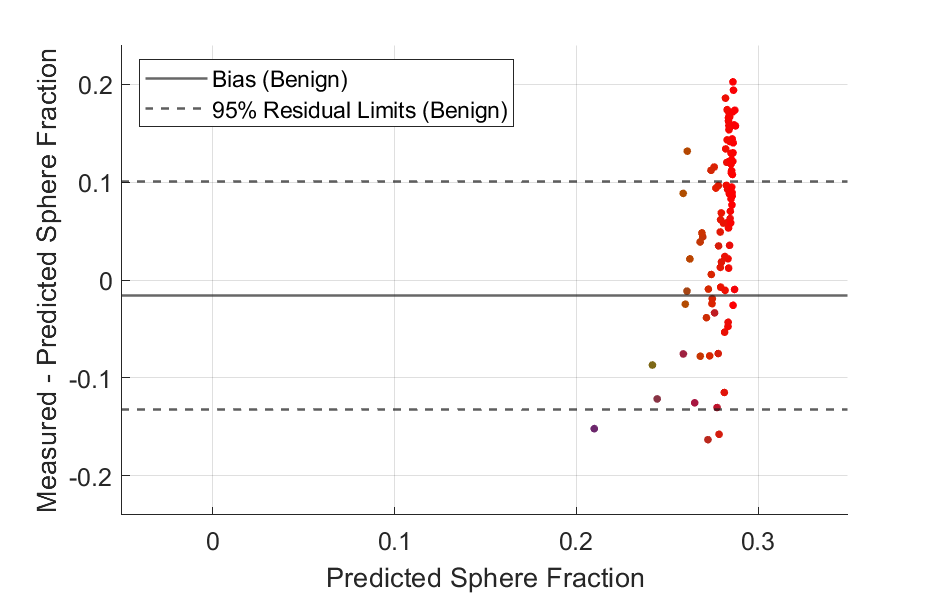
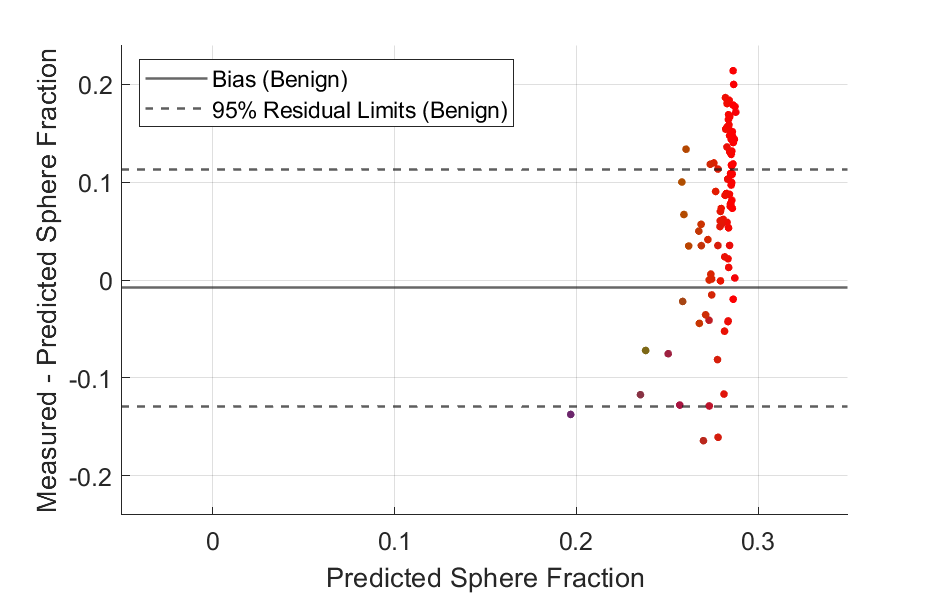
UPdate.

diff --git a/Code/Analysis/model_measured_predicted_signals.m b/Code/Analysis/model_measured_predicted_signals.m
@@ -78,69 +78,69 @@ end
 %% Run modelling
 
 
-% ============= ADC model
-
-modelname = 'ADC';
-fittingtechnique = 'LSQ';
-Nparam = 2;
-
-D = 1; Dlb = 0.1; Dub = 3;
-S0 = 1; S0lb = 0.9; S0ub = 1.1;
-
-beta0 = [S0, D];
-lb = [S0lb, Dlb];
-ub = [S0ub, Dub];
-
-% Regularisation
-lambda0=0e-2;
-lambda = lambda0*ones(1,Nparam);
-
-
-% == MEASURED
-
-Y = reshape(MeasuredSignals, [Nvoxel, 1 , nscheme]);
-
-[~, measured_D] = diffusion_model_fit( ...
-    Y, ...
-    scheme, ...
-    modelname = modelname,...
-    fittingtechnique = fittingtechnique,...
-    Nparam = Nparam,...
-    beta0=beta0,...
-    lambda=lambda,...
-    lb=lb,...
-    ub=ub...
-    );
-
-% Save
-folder = fullfile(projectfolder, 'Outputs', 'Model Fitting', 'Measured', modelname);
-mkdir(folder);
-save(fullfile(folder, 'D.mat'), 'measured_D')
-
-% == PREDICTED
-
-Y = reshape(PredictedSignals, [Nvoxel, 1 , nscheme]);
-
-% Normalise for S0 
-Y(:,:,2:end) = Y(:,:,2:end)./(sum(COMP,2));
-
-[~, pred_D] = diffusion_model_fit( ...
-    Y, ...
-    scheme, ...
-    modelname = modelname,...
-    fittingtechnique = fittingtechnique,...
-    Nparam = Nparam,...
-    beta0=beta0,...
-    lambda=lambda,...
-    lb=lb,...
-    ub=ub...
-    );
-
-% Save
-folder = fullfile(projectfolder, 'Outputs', 'Model Fitting', 'Predicted', modelname);
-mkdir(folder);
-save(fullfile(folder, 'D.mat'), 'pred_D')
-
+% % ============= ADC model
+% 
+% modelname = 'ADC';
+% fittingtechnique = 'LSQ';
+% Nparam = 2;
+% 
+% D = 1; Dlb = 0.1; Dub = 3;
+% S0 = 1; S0lb = 0.9; S0ub = 1.1;
+% 
+% beta0 = [S0, D];
+% lb = [S0lb, Dlb];
+% ub = [S0ub, Dub];
+% 
+% % Regularisation
+% lambda0=0e-2;
+% lambda = lambda0*ones(1,Nparam);
+% 
+% 
+% % == MEASURED
+% 
+% Y = reshape(MeasuredSignals, [Nvoxel, 1 , nscheme]);
+% 
+% [~, measured_D] = diffusion_model_fit( ...
+%     Y, ...
+%     scheme, ...
+%     modelname = modelname,...
+%     fittingtechnique = fittingtechnique,...
+%     Nparam = Nparam,...
+%     beta0=beta0,...
+%     lambda=lambda,...
+%     lb=lb,...
+%     ub=ub...
+%     );
+% 
+% % Save
+% folder = fullfile(projectfolder, 'Outputs', 'Model Fitting', 'Measured', modelname);
+% mkdir(folder);
+% save(fullfile(folder, 'D.mat'), 'measured_D')
+% 
+% % == PREDICTED
+% 
+% Y = reshape(PredictedSignals, [Nvoxel, 1 , nscheme]);
+% 
+% % Normalise for S0 
+% Y(:,:,2:end) = Y(:,:,2:end)./(sum(COMP,2));
+% 
+% [~, pred_D] = diffusion_model_fit( ...
+%     Y, ...
+%     scheme, ...
+%     modelname = modelname,...
+%     fittingtechnique = fittingtechnique,...
+%     Nparam = Nparam,...
+%     beta0=beta0,...
+%     lambda=lambda,...
+%     lb=lb,...
+%     ub=ub...
+%     );
+% 
+% % Save
+% folder = fullfile(projectfolder, 'Outputs', 'Model Fitting', 'Predicted', modelname);
+% mkdir(folder);
+% save(fullfile(folder, 'D.mat'), 'pred_D')
+% 
 
 
 
@@ -162,8 +162,8 @@ Nparam = 5;
 
 Nparam = 5;
 beta0 = [0.15, 6.5, 0.6, 0.8, 1];
-lb = [0, 6.5, 0.6, 0.1, 1];
-ub = [1, 6.5, 0.6, 3, 1];
+lb = [0, 2, 0.6, 0.1, 1];
+ub = [1, 12, 0.6, 3, 1];
 
 
 % Regularisation
@@ -177,7 +177,7 @@ Y = reshape(PredictedSignals, [Nvoxel, 1 , nscheme]);
 % Normalise for S0
 Y(:,:,2:end) = Y(:,:,2:end)./(sum(COMP,2));
 
-[pred_fs, ~, ~, pred_Db, ~, ~] = diffusion_model_fit( ...
+[pred_fs, pred_R, ~, pred_Db, ~, ~] = diffusion_model_fit( ...
     Y, ...
     scheme, ...
     modelname = modelname,...
@@ -194,12 +194,13 @@ folder = fullfile(projectfolder, 'Outputs', 'Model Fitting', 'Predicted', modeln
 mkdir(folder);
 save(fullfile(folder, 'fs.mat'), 'pred_fs')
 save(fullfile(folder, 'Db.mat'), 'pred_Db')
+save(fullfile(folder, 'R.mat'), 'pred_R')
 
 % == MEASURED
 
 Y = reshape(MeasuredSignals, [Nvoxel, 1 , nscheme]);
 
-[measured_fs, ~, ~, measured_Db, ~, ~] = diffusion_model_fit( ...
+[measured_fs, measured_R, ~, measured_Db, ~, ~] = diffusion_model_fit( ...
     Y, ...
     scheme, ...
     modelname = modelname,...
@@ -216,5 +217,6 @@ folder = fullfile(projectfolder, 'Outputs', 'Model Fitting', 'Measured', modelna
 mkdir(folder);
 save(fullfile(folder, 'fs.mat'), 'measured_fs')
 save(fullfile(folder, 'Db.mat'), 'measured_Db')
+save(fullfile(folder, 'R.mat'), 'measured_R')
 
 

diff --git a/Code/Figures/plot_cancer_signal_predictions_vs_measurements.m b/Code/Figures/plot_cancer_signal_predictions_vs_measurements.m
@@ -14,7 +14,7 @@ Benign = {'4N', '5B', '5M', '5N', '6B',  '6M', '7M', '7N', '8B', '8M', '8N', '7B
 group = 'Cancer_G4';
 
 % Image
-seriesindx =11;
+seriesindx =2;
 SeriesDescriptions = {
     'SE_b0_SPOIL5% (DS)',...
     'STEAM_ShortDELTA_15 (DS)',...
